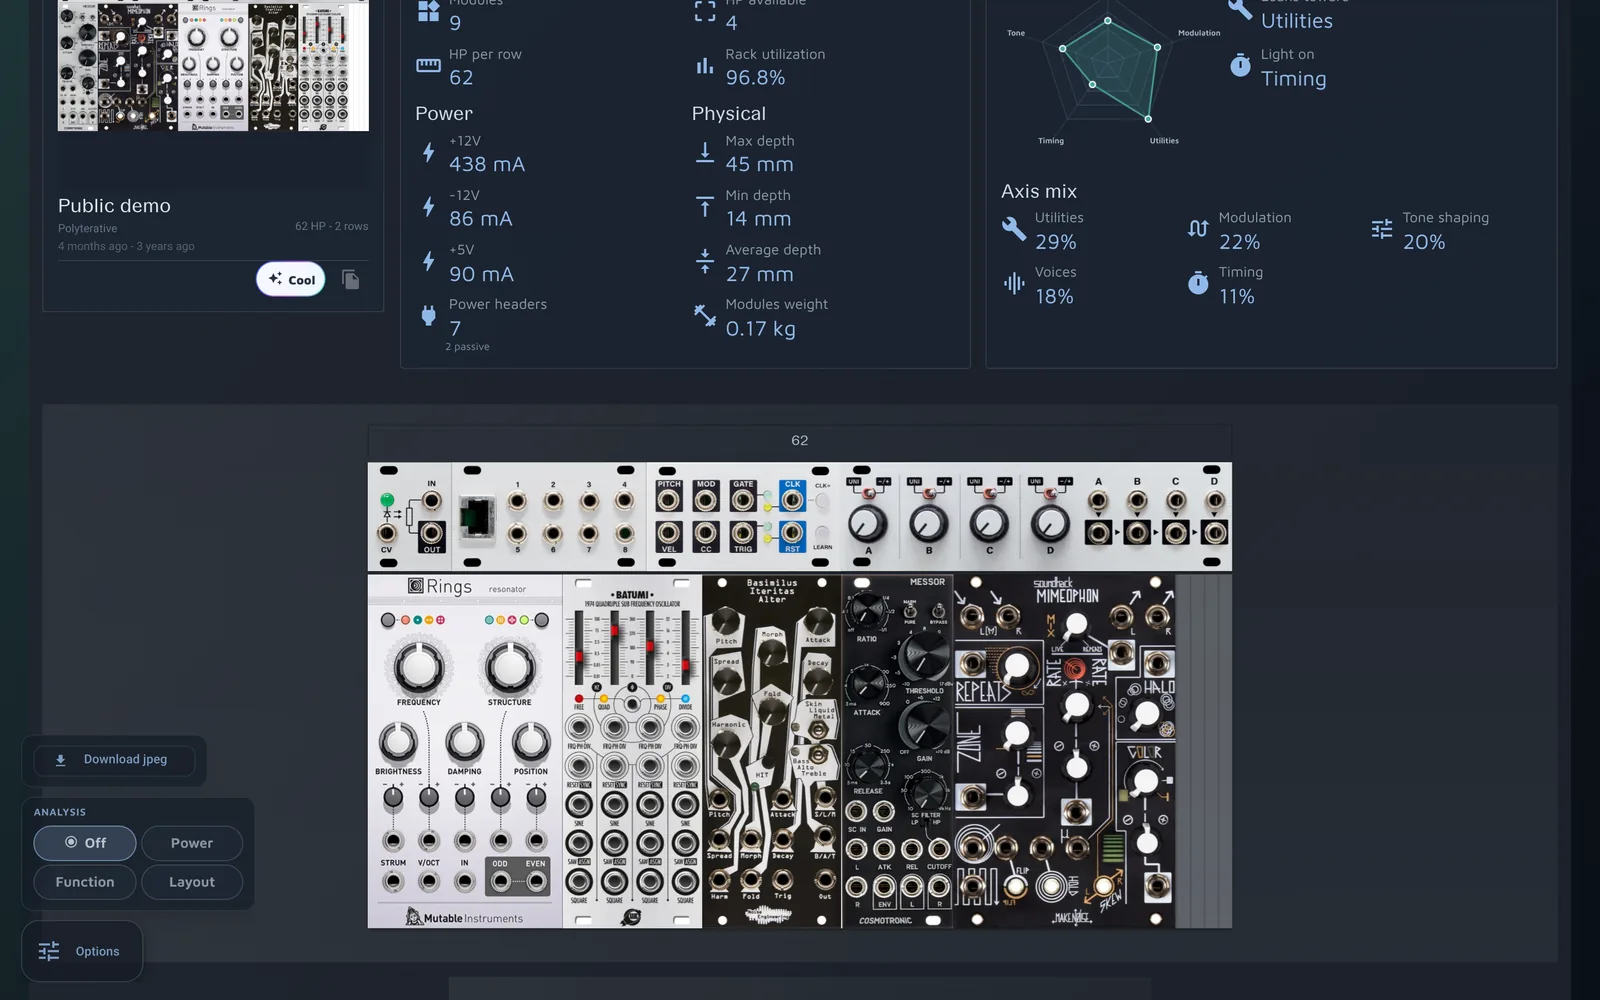
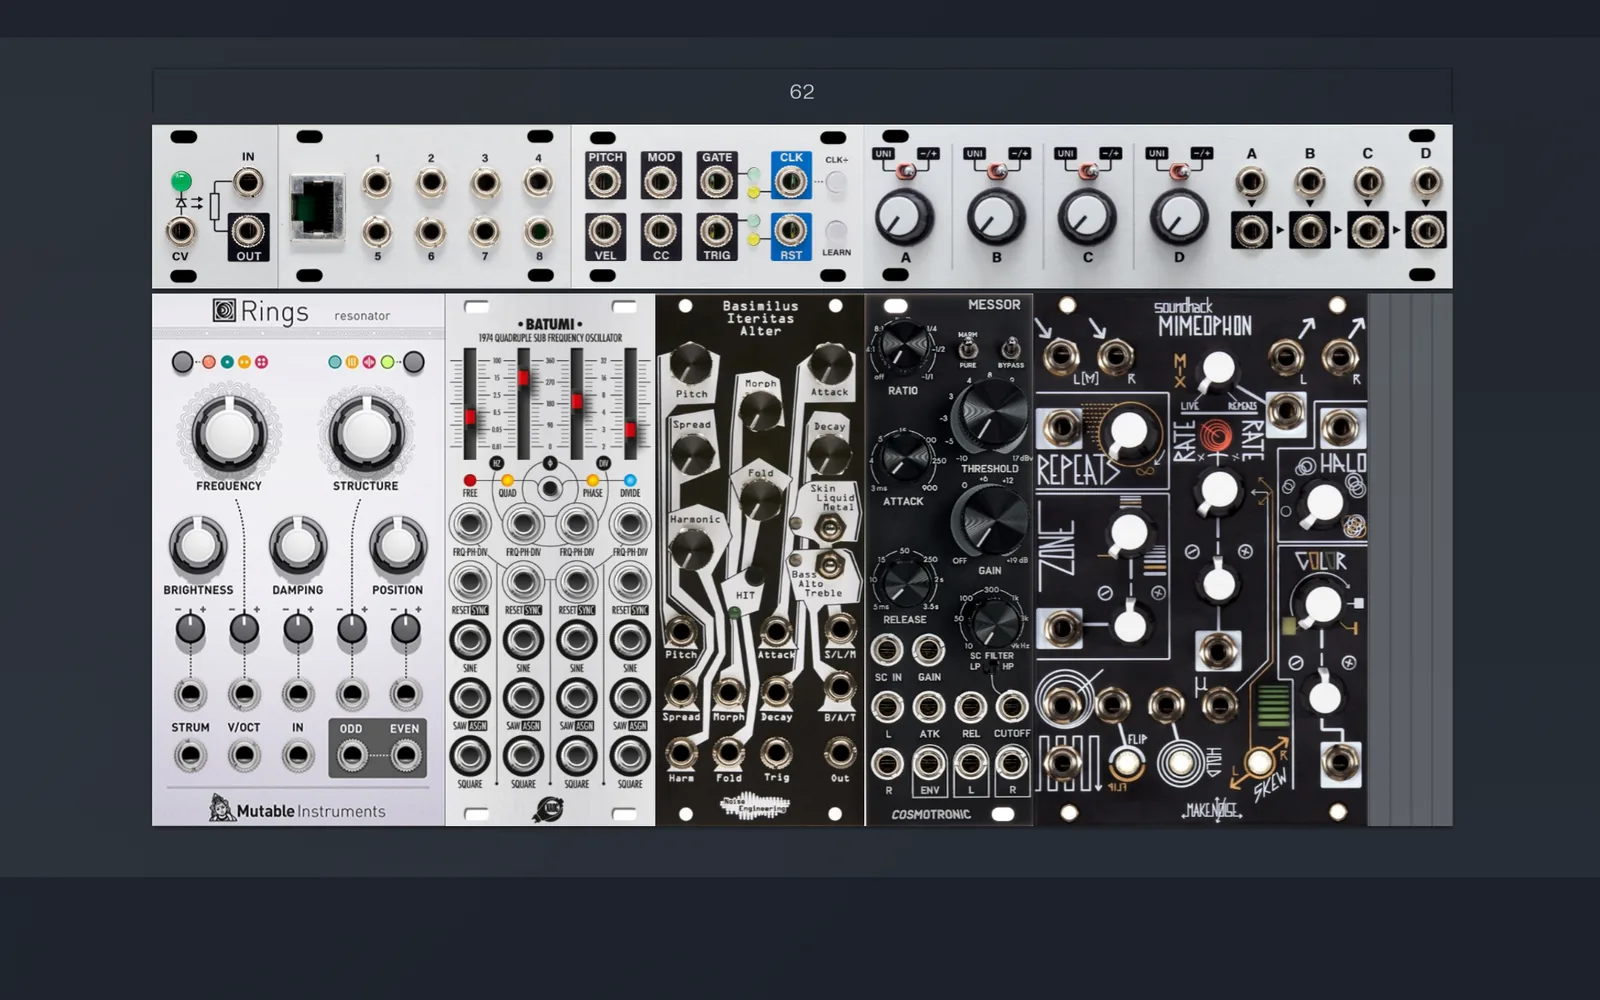
fix(home): reframe the racks tour shot around the case itself

diff --git a/src/app/features/backbone/home/home-copy.ts b/src/app/features/backbone/home/home-copy.ts
@@ -55,7 +55,7 @@ export const HOME_TOUR_TABS: HomeTourTab[] = [
     shot: {
       light: `${SHOT_ROOT}/tour-racks-light.webp`,
       dark: `${SHOT_ROOT}/tour-racks-dark.webp`,
-      alt: 'Rack page in Patcher with power, depth and balance analysis above the module layout'
+      alt: 'A two-row Eurorack case planned in Patcher, with Rings, Batumi, Mimeophon and other module panels in place'
     }
   },
   {

diff --git a/internaldocs/workflow/plans/homepage-marketing-rebuild.md b/internaldocs/workflow/plans/homepage-marketing-rebuild.md
@@ -101,6 +101,9 @@ Status: Active on `develop`, frontend-only. No schema/migration/RLS/RPC change. 
 - 2026-10-07: Tour shots are captured by Playwright at 1440x900 @2x (shell chrome hidden, 2rem side padding) and
   saved as 1600x1000 WebP, so the 16:10 frame uses `object-fit: contain` and never crops (owner saw the interim 16:9
   images cut off left/right). Only the active tab's image loads (`[hidden]` panels + `loading="lazy"`).
+- 2026-10-07: Owner found the racks shot's framing weak (mid-page scroll cut stat cards in half). Racks shot is now a
+  16:10 clip centred on `app-rack-visual-model` with 90px side padding and everything below the rack hidden, so the
+  case itself is the subject; the tour bullets carry the analysis claims.
 - 2026-10-07: Removed orphaned homepage rules from `theme-dark.scss` Pass 3b (old gradients, cards, discovery toggle
   overrides that fought the new token styling); kept selectors still used elsewhere (`.section-intro`, `.eyebrow`,
   module-browser toggles).
